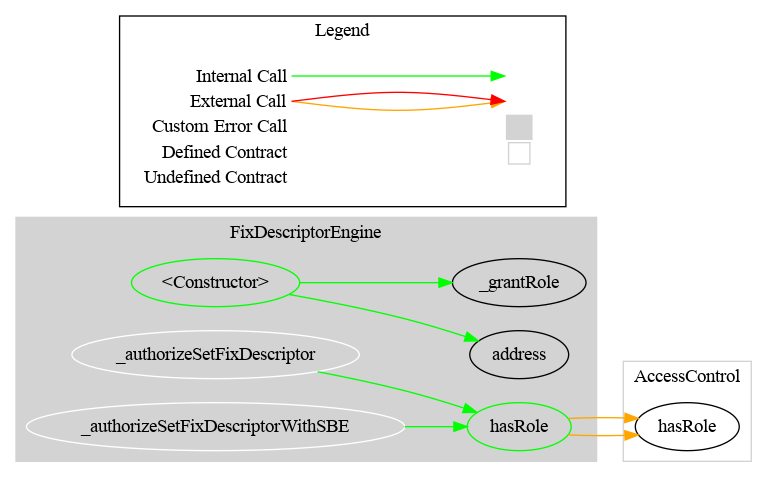
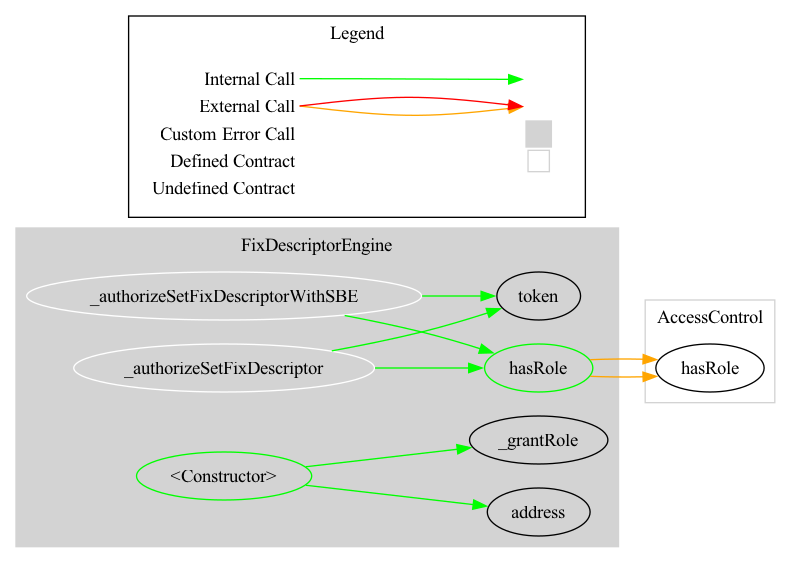
chore(surya): output to doc/surya, use relative paths in reports
- Point inheritance, graph, and report scripts to doc/surya/
- Fix find usage (use SRC_DIR, -name '*.sol') in all three scripts
- Post-process report .md to strip repo root so File Name is relative
- Regenerate inheritance/graph PNGs and report markdown

Made-with: Cursor

diff --git a/doc/surya/surya_report/surya_report_FixDescriptorEngine.sol.md b/doc/surya/surya_report/surya_report_FixDescriptorEngine.sol.md
@@ -5,7 +5,7 @@
 
 |  File Name  |  SHA-1 Hash  |
 |-------------|--------------|
-| ./FixDescriptorEngine.sol | b12c497d5d3222a17882786c4b8d23605aeecdc3 |
+| src/engine/FixDescriptorEngine.sol | 93397819e80e220ac400a80433e8450667dc284e |
 
 
 ### Contracts Description Table
@@ -15,7 +15,7 @@
 |:----------:|:-------------------:|:----------------:|:----------------:|:---------------:|
 |     └      |  **Function Name**  |  **Visibility**  |  **Mutability**  |  **Modifiers**  |
 ||||||
-| **FixDescriptorEngine** | Implementation | FixDescriptorEngineBase, AccessControl |||
+| **FixDescriptorEngine** | Implementation | FixDescriptorEngineBase, AccessControlEnumerable |||
 | └ | <Constructor> | Public ❗ | 🛑  | FixDescriptorEngineBase |
 | └ | hasRole | Public ❗ |   |NO❗ |
 | └ | _authorizeSetFixDescriptor | Internal 🔒 | 🛑  | |

diff --git a/doc/surya/surya_report/surya_report_FixDescriptorEngineModule.sol.md b/doc/surya/surya_report/surya_report_FixDescriptorEngineModule.sol.md
@@ -5,7 +5,7 @@
 
 |  File Name  |  SHA-1 Hash  |
 |-------------|--------------|
-| ./FixDescriptorEngineModule.sol | b60fa1f051db3b9ac5cd10bfb18c27f7587780c7 |
+| src/FixDescriptorEngineModule.sol | b131ef802446487198f4ef3ce824c749ef9a9b83 |
 
 
 ### Contracts Description Table
@@ -16,7 +16,7 @@
 |     └      |  **Function Name**  |  **Visibility**  |  **Mutability**  |  **Modifiers**  |
 ||||||
 | **FixDescriptorEngineModule** | Implementation | Initializable |||
-| └ | __FixDescriptorEngineModule_init_unchained | Internal 🔒 | 🛑  | onlyInitializing |
+| └ | __fixDescriptorEngineModuleInitUnchained | Internal 🔒 | 🛑  | onlyInitializing |
 | └ | setFixDescriptorEngine | External ❗ | 🛑  |NO❗ |
 | └ | _authorizeSetDescriptorEngine | Internal 🔒 | 🛑  | |
 | └ | getDescriptorEngine | External ❗ |   |NO❗ |

diff --git a/doc/surya/surya_report/surya_report_FixDescriptorEngineBase.sol.md b/doc/surya/surya_report/surya_report_FixDescriptorEngineBase.sol.md
@@ -5,7 +5,7 @@
 
 |  File Name  |  SHA-1 Hash  |
 |-------------|--------------|
-| ./FixDescriptorEngineBase.sol | 13b78a049dba05023e5808378af98ff5780e4539 |
+| src/engine/FixDescriptorEngineBase.sol | 79a5a7cb3c2c5b5d27f519ce481be866c0790182 |
 
 
 ### Contracts Description Table
@@ -19,6 +19,7 @@
 | └ | <Constructor> | Public ❗ | 🛑  |NO❗ |
 | └ | getFixDescriptor | External ❗ |   |NO❗ |
 | └ | getFixRoot | External ❗ |   |NO❗ |
+| └ | token | External ❗ |   |NO❗ |
 | └ | verifyField | External ❗ |   |NO❗ |
 | └ | getFixSBEChunk | External ❗ |   |NO❗ |
 | └ | setFixDescriptor | External ❗ | 🛑  |NO❗ |

diff --git a/doc/surya/surya_report/surya_report_IFixDescriptorEngine.sol.md b/doc/surya/surya_report/surya_report_IFixDescriptorEngine.sol.md
@@ -5,7 +5,7 @@
 
 |  File Name  |  SHA-1 Hash  |
 |-------------|--------------|
-| ./interfaces/IFixDescriptorEngine.sol | 128bf8d844bb069b2a35efc1abccb17bf696edcd |
+| src/engine/interfaces/IFixDescriptorEngine.sol | 6ac967232f1e37b44231831022b5b319bf9bcb40 |
 
 
 ### Contracts Description Table

diff --git a/doc/surya/surya_report/surya_report_CMTATWithFixDescriptor.sol.md b/doc/surya/surya_report/surya_report_CMTATWithFixDescriptor.sol.md
@@ -5,7 +5,7 @@
 
 |  File Name  |  SHA-1 Hash  |
 |-------------|--------------|
-| ./examples/CMTATWithFixDescriptor.sol | 6e2b09c8ecb5f988f3e84f4d806cedb7f1b98f6f |
+| src/example/CMTATWithFixDescriptor.sol | 4e5c37b4726615b0cf54e26e16dc1068fd5c3927 |
 
 
 ### Contracts Description Table

diff --git a/doc/surya/surya_report/surya_report_FixDescriptorModule.sol.md b/doc/surya/surya_report/surya_report_FixDescriptorModule.sol.md
@@ -5,7 +5,7 @@
 
 |  File Name  |  SHA-1 Hash  |
 |-------------|--------------|
-| ./modules/FixDescriptorModule.sol | 1bae6f87a7fec2da431655bd2a8b7ce4bb8dd509 |
+| src/engine/modules/FixDescriptorModule.sol | 693da4647854d0dbcfca400e5366b8c85feee937 |
 
 
 ### Contracts Description Table

diff --git a/doc/surya/surya_report/surya_report_VersionModule.sol.md b/doc/surya/surya_report/surya_report_VersionModule.sol.md
@@ -5,7 +5,7 @@
 
 |  File Name  |  SHA-1 Hash  |
 |-------------|--------------|
-| ./modules/VersionModule.sol | 5be2dc7b0cc63981b9ece86409e09fc0cdbb39fd |
+| src/engine/modules/VersionModule.sol | 443a28df87f7ce3da0d6f7bc4ef4f3c8288d5e07 |
 
 
 ### Contracts Description Table
